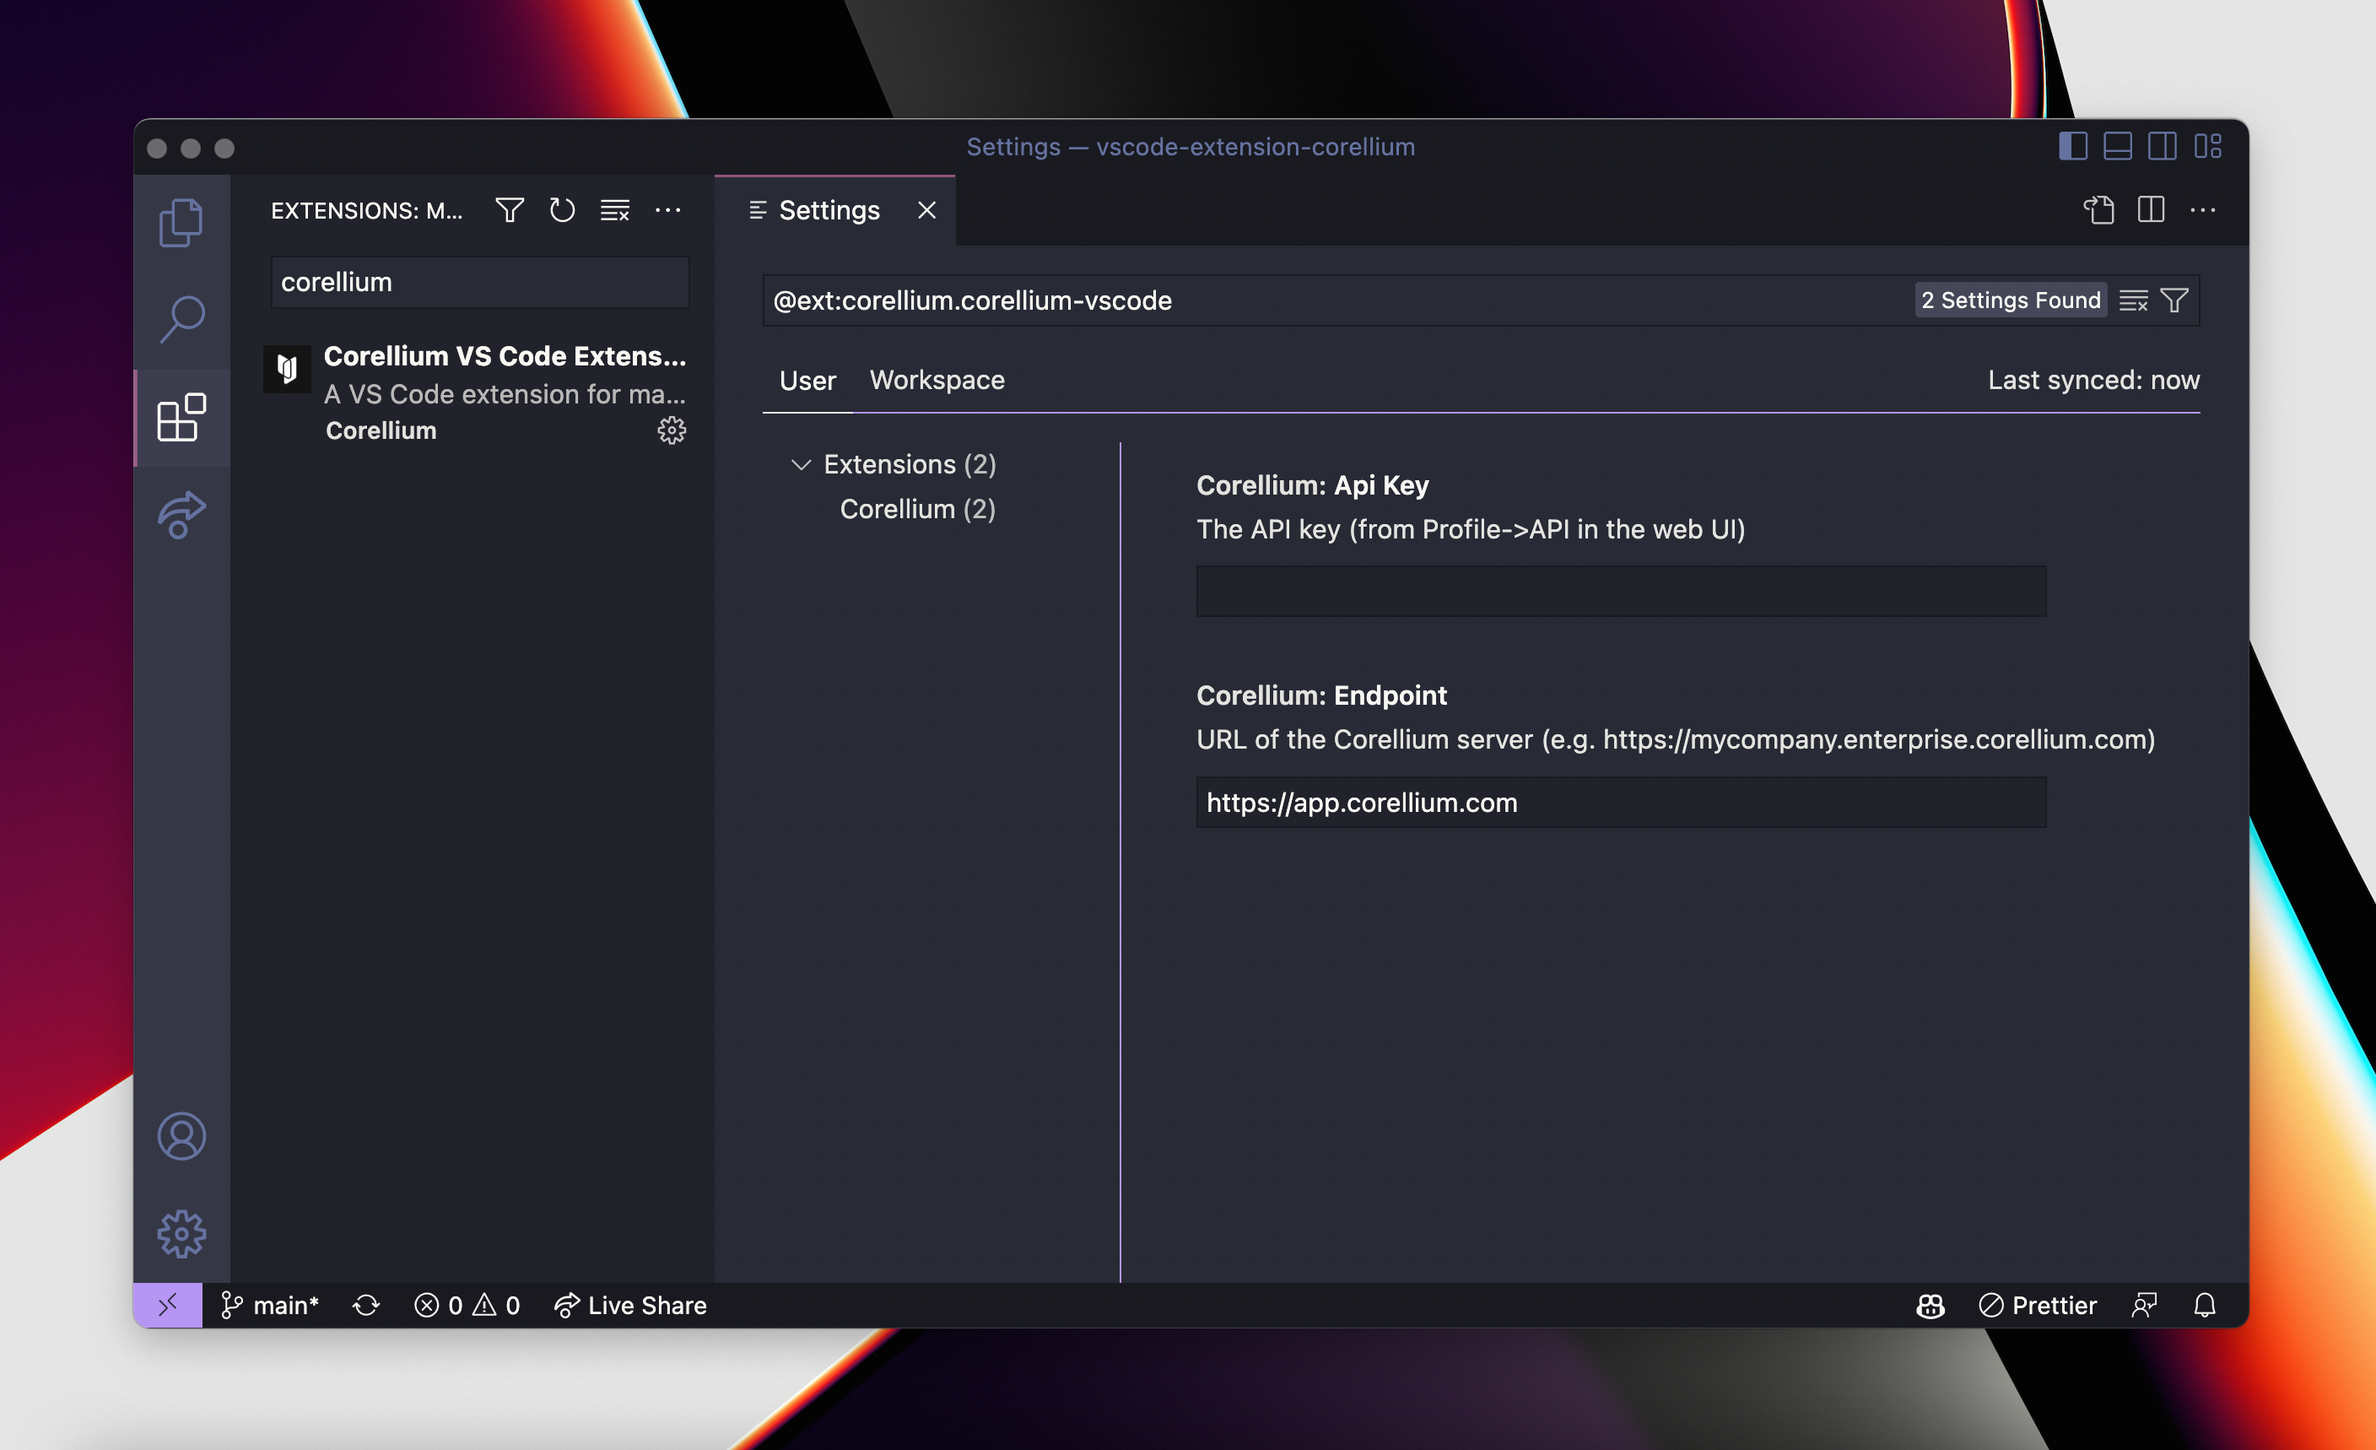
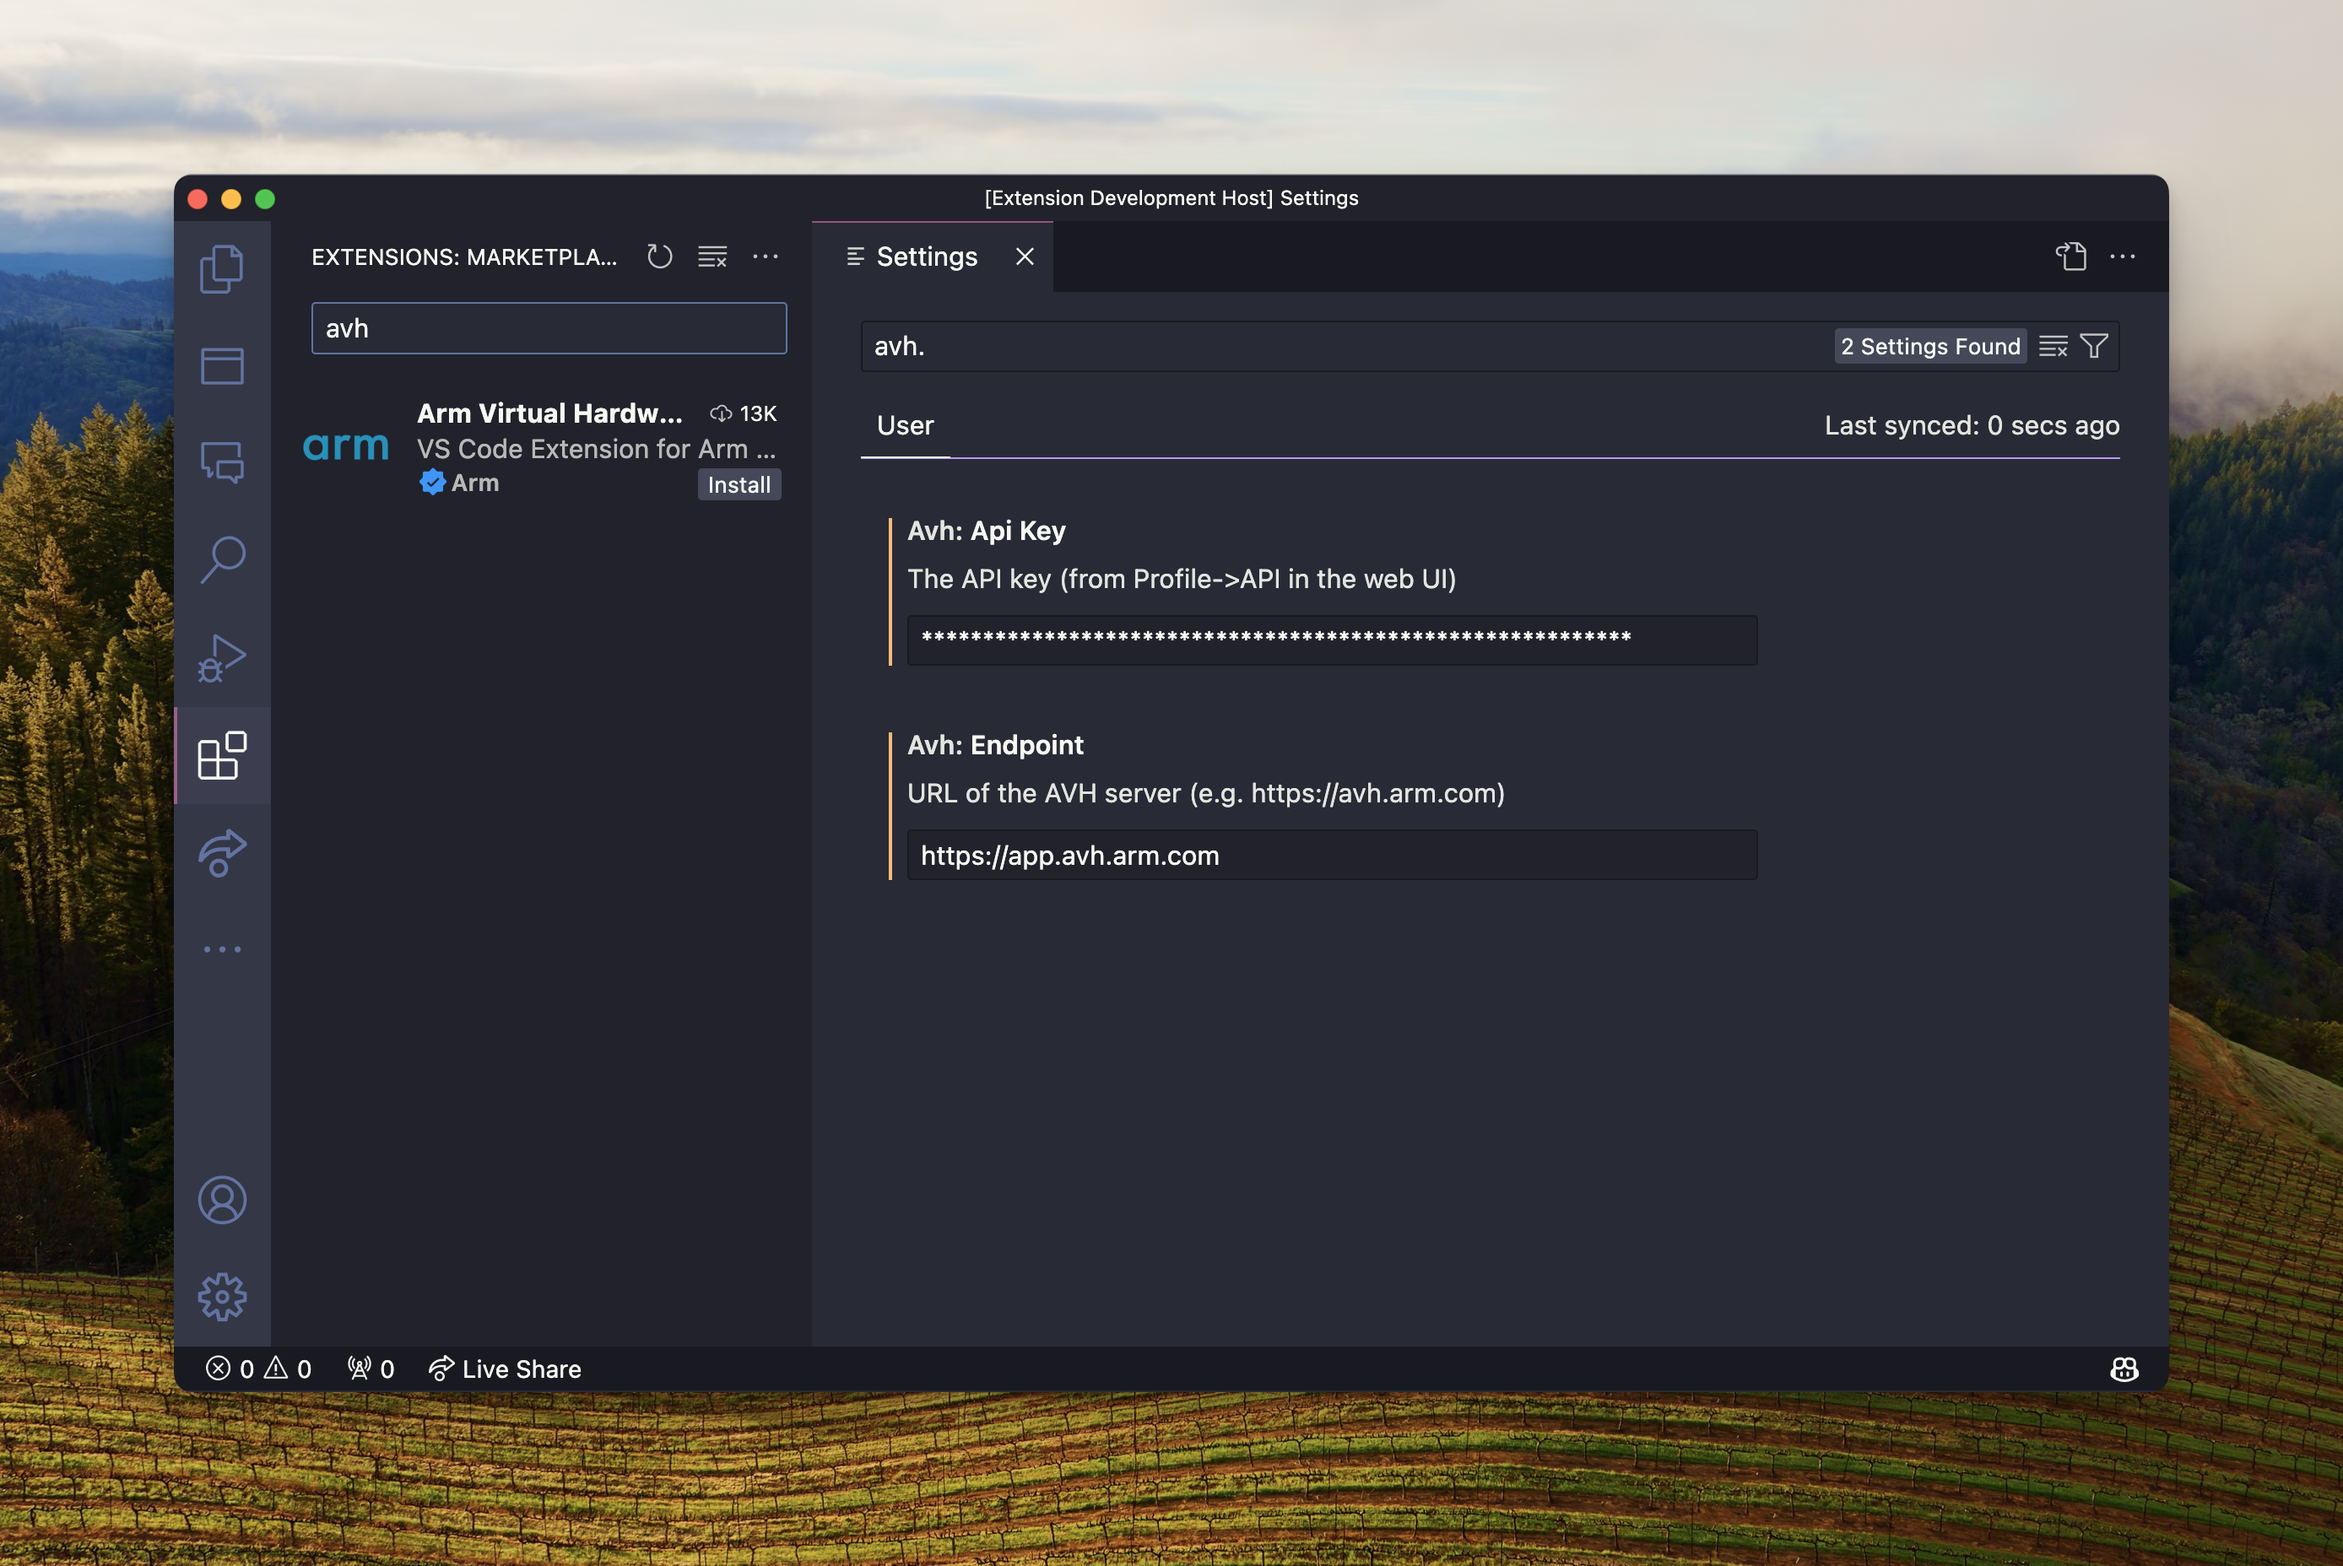
Replace variables

diff --git a/src/extension.ts b/src/extension.ts
@@ -13,7 +13,7 @@ let refreshTimer: NodeJS.Timer | null = null;
 
 export const activate = (context: ExtensionContext): void => {
   // Set up the API client object, note that apiInstance is global
-  const configuration = workspace.getConfiguration('corellium');
+  const configuration = workspace.getConfiguration('avh');
   const defaultClient = ApiClient.instance;
   const endpoint = configuration.get('endpoint');
   const apiKey = configuration.get('ApiKey');
@@ -38,12 +38,12 @@ export const activate = (context: ExtensionContext): void => {
 
   workspace.onDidChangeConfiguration(async (event) => {
     const affected =
-      event.affectsConfiguration('corellium.endpoint') ||
-      event.affectsConfiguration('corellium.ApiKey');
+      event.affectsConfiguration('avh.endpoint') ||
+      event.affectsConfiguration('avh.ApiKey');
 
     if (affected) {
       await window.showInformationMessage(
-        'Corellium configuration changed, please reload the window to apply changes and restart the extension.',
+        'AVH configuration changed, please reload the window to apply changes and restart the extension.',
         'Reload Window'
       );
       await commands.executeCommand('workbench.action.reloadWindow');
@@ -108,7 +108,7 @@ export const activate = (context: ExtensionContext): void => {
 
   const openInBrowserCommandHandler = async (instance: CorelliumInstance) => {
     const parsedEndpoint =
-      typeof endpoint === 'string' ? endpoint : 'https://app.corellium.com';
+      typeof endpoint === 'string' ? endpoint : 'https://app.avh.com';
     const url = new URL(
       `devices/${instance.instanceUUID}/connect`,
       parsedEndpoint
@@ -226,58 +226,37 @@ export const activate = (context: ExtensionContext): void => {
   }, 10000);
 
   context.subscriptions.push(
-    commands.registerCommand(
-      'corellium.startDevice',
-      turnOnDeviceCommandHandler
-    )
+    commands.registerCommand('avh.startDevice', turnOnDeviceCommandHandler)
+  );
+  context.subscriptions.push(
+    commands.registerCommand('avh.stopDevice', turnOffDeviceCommandHandler)
+  );
+  context.subscriptions.push(
+    commands.registerCommand('avh.rebootDevice', rebootDeviceCommandHandler)
+  );
+  context.subscriptions.push(
+    commands.registerCommand('avh.pauseDevice', pauseDeviceCommandHandler)
+  );
+  context.subscriptions.push(
+    commands.registerCommand('avh.unpauseDevice', unpauseDeviceCommandHandler)
+  );
+  context.subscriptions.push(
+    commands.registerCommand('avh.openInBrowser', openInBrowserCommandHandler)
+  );
+  context.subscriptions.push(
+    commands.registerCommand('avh.openConsole', openConsoleCommandHandler)
+  );
+  context.subscriptions.push(
+    commands.registerCommand('avh.takeSnapshot', takeSnapshotCommandHandler)
   );
   context.subscriptions.push(
     commands.registerCommand(
-      'corellium.stopDevice',
-      turnOffDeviceCommandHandler
-    )
-  );
-  context.subscriptions.push(
-    commands.registerCommand(
-      'corellium.rebootDevice',
-      rebootDeviceCommandHandler
-    )
-  );
-  context.subscriptions.push(
-    commands.registerCommand('corellium.pauseDevice', pauseDeviceCommandHandler)
-  );
-  context.subscriptions.push(
-    commands.registerCommand(
-      'corellium.unpauseDevice',
-      unpauseDeviceCommandHandler
-    )
-  );
-  context.subscriptions.push(
-    commands.registerCommand(
-      'corellium.openInBrowser',
-      openInBrowserCommandHandler
-    )
-  );
-  context.subscriptions.push(
-    commands.registerCommand('corellium.openConsole', openConsoleCommandHandler)
-  );
-  context.subscriptions.push(
-    commands.registerCommand(
-      'corellium.takeSnapshot',
-      takeSnapshotCommandHandler
-    )
-  );
-  context.subscriptions.push(
-    commands.registerCommand(
-      'corellium.restoreSnapshot',
+      'avh.restoreSnapshot',
       restoreSnapshotCommandHandler
     )
   );
   context.subscriptions.push(
-    commands.registerCommand(
-      'corellium.refreshDevices',
-      refreshDevicesCommandHandler
-    )
+    commands.registerCommand('avh.refreshDevices', refreshDevicesCommandHandler)
   );
 };
 

diff --git a/README.md b/README.md
@@ -1,6 +1,6 @@
-# Corellium VSCode Extension
+# AVH VSCode Extension
 
-![Screenshot](https://github.com/corellium/vscode-extension/raw/main/screenshot.png)
+![Screenshot](https://github.com/ARM-software/avh-vscode-extension/raw/main/screenshot.png)
 
 ## Features
 
@@ -17,8 +17,8 @@
 
 ## Installation
 
-1. Install the extension from the [VSCode Marketplace](https://marketplace.visualstudio.com/items?itemName=corellium.corellium-vscode) or with the terminal command `code --install-extension corellium.corellium-vscode`.
-2. Open the extension settings and enter your Corellium API token (and optionally your endpoint).
+1. Install the extension from the [VSCode Marketplace](https://marketplace.visualstudio.com/items?itemName=arm.avh-vscode-extension) or with the terminal command `code --install-extension arm.avh-vscode-extension`.
+2. Open the extension settings and enter your AVH API token (and optionally your endpoint).
 3. Reload VSCode to apply the changes and start using the extension.
 
 ![Screenshot](/settings.png)
@@ -29,6 +29,6 @@
 1. Clone the repo.
 2. Run `yarn install` to install dependencies.
 3. Run `yarn dev` to compile the extension and watch for changes.
-4. Open the `corellium` folder in VSCode.
+4. Open the project folder in VSCode.
 5. Launch a new VSCode window with the extension loaded. You can either press `F5` or open the command palette and run `Debug: Start Debugging`.
 6. Make changes to the extension and reload the extension to see them take effect.
